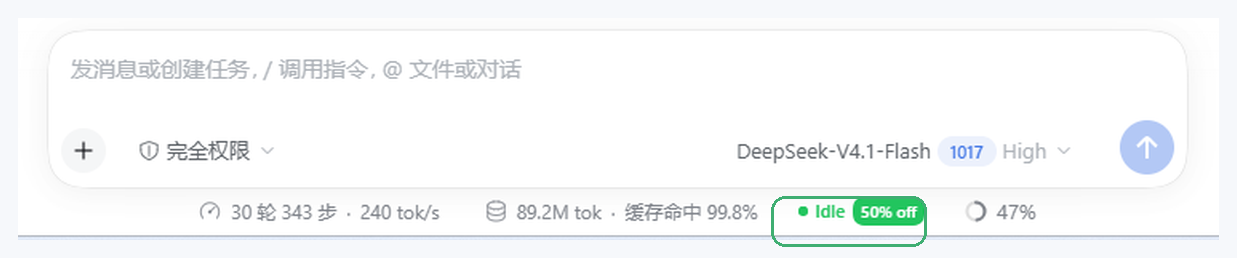
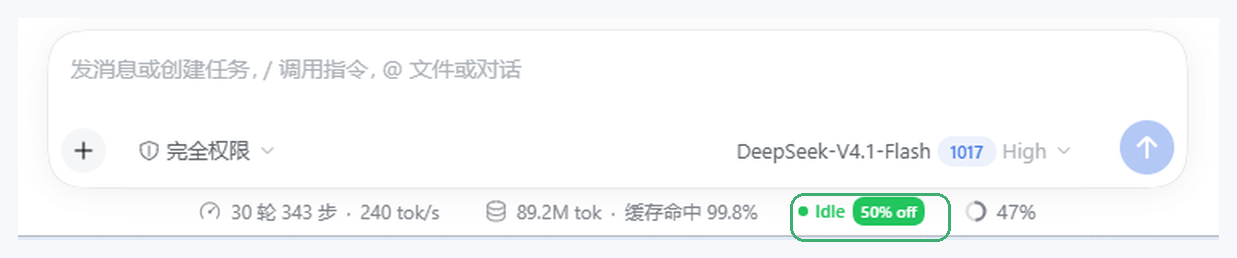
docs: centre the location ring on the measured chip bounds

Changed region(s): [[0.6144, 0.7442, 0.768, 0.9612]]

diff --git a/docs/make-previews.py b/docs/make-previews.py
@@ -26,7 +26,7 @@ SOURCES = {
 LOCATION = (
     Path(r"C:\Users\slren\.dsh\attachments\v1\objects\f2\f29951cb65a39367a939de77b68471de1100eb58bb756381b077c9169ee6e764"),
     (6, 4, 757, 143),
-    (476, 114, 563, 140),
+    (488, 112, 578, 137),
 )
 
 # Crop boxes inside each screenshot: (left, top, right, bottom).
